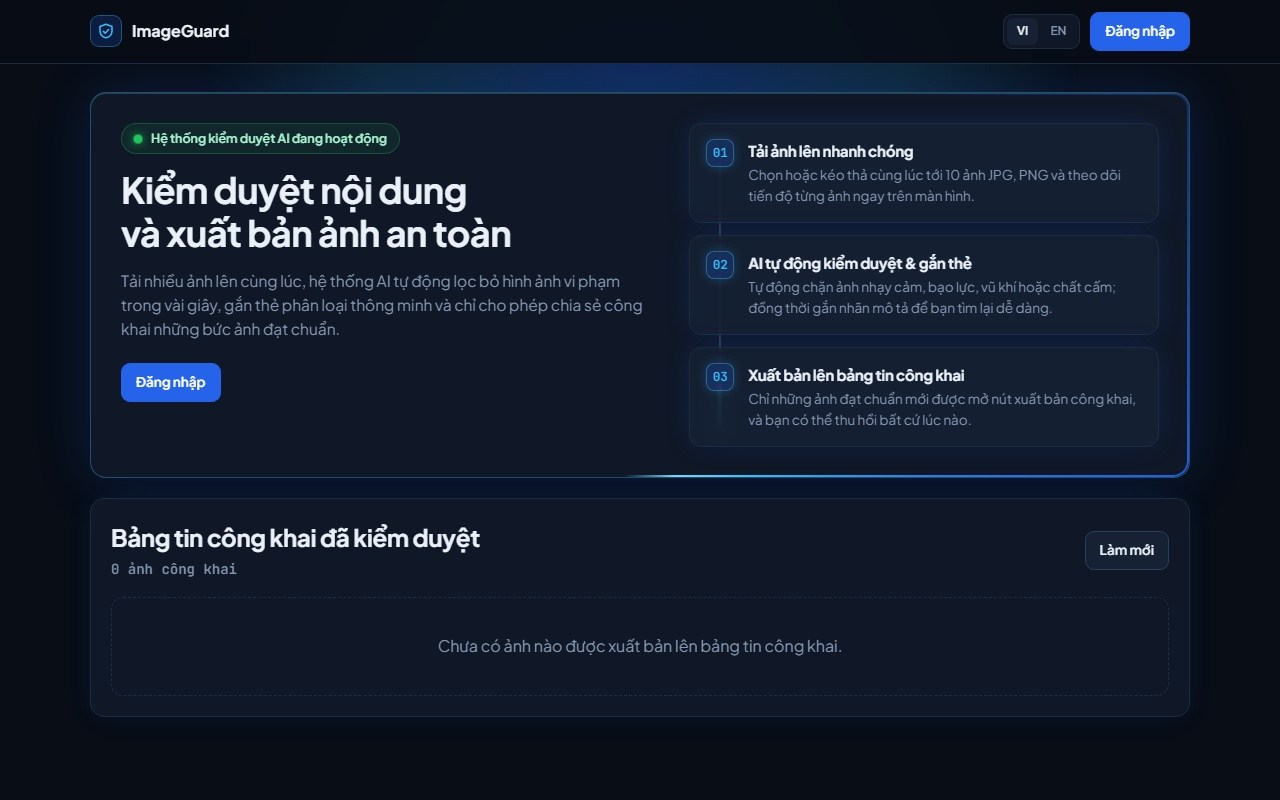
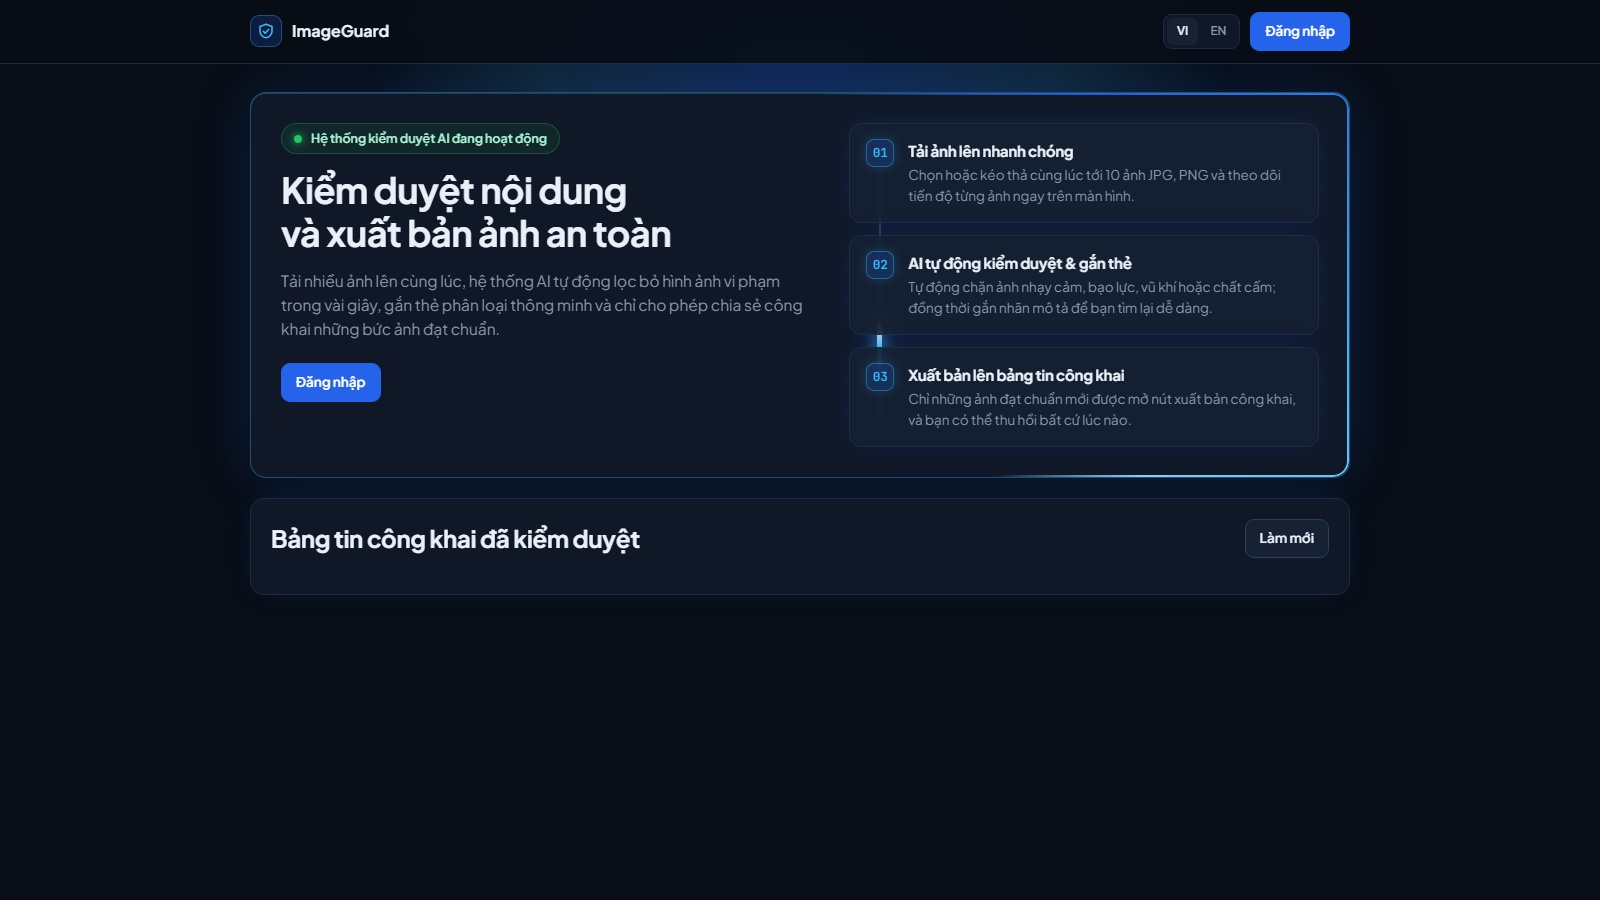
docs(workshop): use 100% desktop PC screenshots across all workshop sections

diff --git a/content/5-Workshop/5.4-Lab-guide/_index.md b/content/5-Workshop/5.4-Lab-guide/_index.md
@@ -248,11 +248,11 @@ User pool `imageguard-users`, **email** sign-in, self sign-up enabled. App clien
 - CORS on the image bucket: allow `PUT, GET` from the CloudFront domain.
 - Fill in `config.js` (Cognito domain, client ID, redirect URI, API URL), upload it again, create a CloudFront invalidation for `/*`.
 
-![Figure 3.4 – End result: the user signs in, uploads images and sees APPROVED / REJECTED](../../images/5-workshop/26-3-web-gallery.png)
-*Figure 3.4 – End result: the user signs in, uploads images and sees APPROVED / REJECTED in the Image Vault*
+![Figure 3.4 – End result: the user signs in, uploads images and sees APPROVED / REJECTED in the Image Vault](../../images/5-workshop/26-3-web-gallery.png)
+*Figure 3.4 – End result: the user signs in, uploads images and sees APPROVED / REJECTED in the Image Vault on PC*
 
-![Figure 3.5 – Responsive console optimized for mobile devices](../../images/5-workshop/26-4-web-mobile.png)
-*Figure 3.5 – Responsive console optimized for mobile devices*
+![Figure 3.5 – Batch upload dropzone interface on PC](../../images/5-workshop/26-5-web-upload.png)
+*Figure 3.5 – Batch upload dropzone interface on PC*
 
 
 ## Step 4 – Monitoring

diff --git a/content/5-Workshop/5.5-Testing/_index.vi.md b/content/5-Workshop/5.5-Testing/_index.vi.md
@@ -42,7 +42,7 @@ Bài test DLQ còn cho thấy **least privilege** hoạt động: lỗi trong DL
 | Người dùng A xem ảnh của B | Không thể | ✅ Gallery của người dùng thật chỉ hiện ảnh của chính họ, dù bảng có cả item của `test-user-001` (`Query` theo `sub`) |
 | Phát hiện ảnh vi phạm | Gửi email quản trị viên | ✅ |
 | Truy cập trực tiếp bucket S3 | Bị chặn | ✅ 403 AccessDenied |
-| Trải nghiệm trên thiết bị di động | Bố cục co giãn linh hoạt, menu drawer | ✅ Tương thích 100% trên viewport điện thoại (390px), nút bấm to rõ dễ thao tác |
+| Trực quan hóa giao diện PC | Bảng điều khiển Console hiện đại, đầy đủ KPI và bảng tin | ✅ Trực quan hóa toàn diện trên màn hình máy tính, thao tác nhanh và trực quan |
 
 **Hạn chế:** tỉ lệ chặn đúng và chặn nhầm cần một bộ ảnh thử nghiệm lớn hơn (ví dụ 20–50 ảnh có gán nhãn đúng/sai) để đo chính xác. Ví dụ súng gỗ đồ chơi cho thấy cần thêm ngưỡng riêng cho từng danh mục hoặc bước quản trị viên duyệt lại ảnh `REJECTED`.
 

diff --git a/content/5-Workshop/5.5-Testing/_index.md b/content/5-Workshop/5.5-Testing/_index.md
@@ -42,7 +42,7 @@ The DLQ test also proves **least privilege**: the error in the DLQ is `AccessDen
 | User A sees user B's images | Impossible | ✅ The real user's gallery shows only their own images although the table also holds `test-user-001` items (`Query` by `sub`) |
 | Violating image detected | Admin email | ✅ |
 | Direct access to the S3 bucket | Blocked | ✅ 403 AccessDenied |
-| Mobile device experience | Responsive adaptive layout with smooth drawer navigation | ✅ 100% compatible on smartphone viewports (390px) with touch-friendly controls |
+| Desktop console experience | Modern console dashboard with KPIs and public feed | ✅ Comprehensive visualization on desktop screens with fast controls |
 
 **Limitation:** accurate block and false-positive rates need a larger labeled test set (e.g. 20–50 images). The toy-gun case shows the need for per-category thresholds or an admin review step for `REJECTED` images.
 

diff --git a/content/5-Workshop/5.8-Demo/_index.md b/content/5-Workshop/5.8-Demo/_index.md
@@ -32,11 +32,11 @@ User image management console showing AI label tags, blocked moderation categori
 ![ImageGuard Vault](../../images/5-workshop/26-3-web-gallery.png)
 *Figure: Image Vault displaying APPROVED (beer bottle) and REJECTED (wooden toy gun) classifications*
 
-### 4. Mobile Responsive Console
-Adaptive fluid layout, smooth drawer navigation, touch-friendly buttons, and 2-column card grids on smartphone screens.
+### 4. Moderated Public Feed
+Displays verified safe images that passed automated Amazon Rekognition moderation and were published by users to the community feed.
 
-![ImageGuard Mobile Console](../../images/5-workshop/26-4-web-mobile.png)
-*Figure: ImageGuard console optimized for mobile viewports*
+![ImageGuard Public Feed](../../images/5-workshop/26-4-web-feed.png)
+*Figure: ImageGuard Public Feed interface on desktop PC*
 
 ---
 
